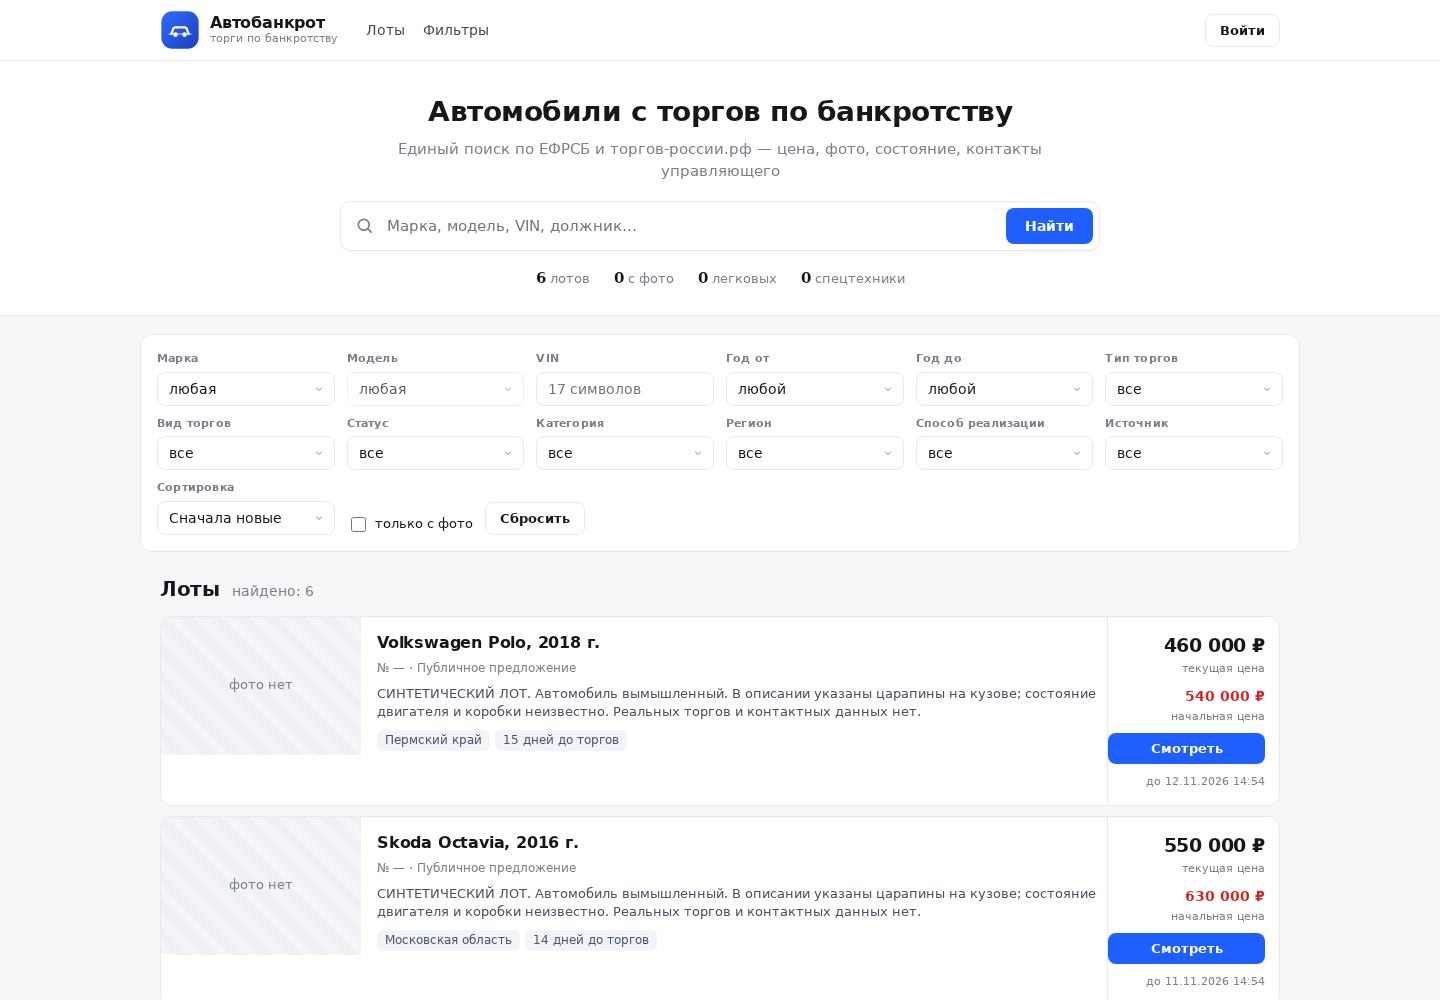
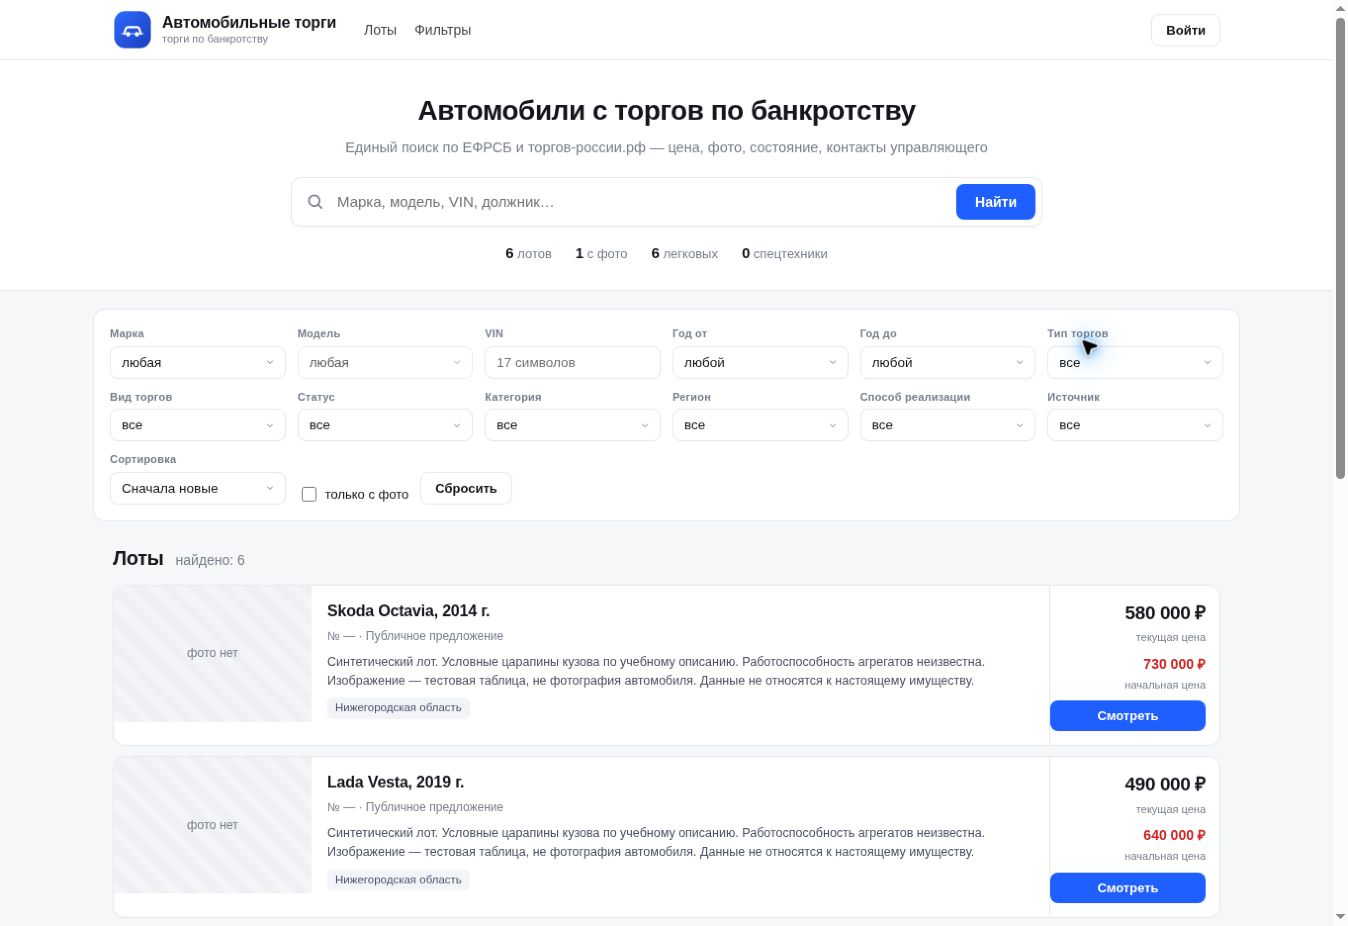
Publish isolated demo, refresh real screenshots and fix make filter counts

diff --git a/demo/fixtures.py b/demo/fixtures.py
@@ -1,0 +1,21 @@
+"""Public synthetic input only; no VINs, real people, listings or vehicle photos."""
+from pathlib import Path
+from PIL import Image, ImageDraw
+
+
+def seed(db, photos_dir):
+    rows=[('Toyota','Camry',2015,630000),('Kia','Rio',2018,470000),('Hyundai','Solaris',2017,520000),('Renault','Duster',2016,610000),('Lada','Vesta',2019,490000),('Skoda','Octavia',2014,580000)]
+    ids=[]
+    for i,(make,model,year,price) in enumerate(rows,1):
+        lot_id,_=db.upsert_lot(dict(efrsb_id=f'demo-{i}',title=f'{make} {model}, {year} — ДЕМО',make=make,model=model,year=year,make_model=f'{make} {model}',description='Синтетический лот. Условные царапины кузова по учебному описанию. Работоспособность агрегатов неизвестна. Изображение — тестовая таблица, не фотография автомобиля. Данные не относятся к настоящему имуществу.',price_amount=price,current_price=price,start_price=price+150000,price_currency='RUB',region='Нижегородская область',category='Легковые автомобили',trade_type='Публичное предложение',status='published',source_url='https://example.invalid/demo-lot'))
+        ids.append(lot_id)
+    folder=Path(photos_dir);folder.mkdir(parents=True,exist_ok=True)
+    im=Image.new('RGB',(1024,600),'#edf2fa');draw=ImageDraw.Draw(im)
+    for i,color in enumerate(['#225bd1','#71a5ee','#b3c9e8','#526374','#d6dce3']):
+        draw.rectangle((50+i*185,140,215+i*185,360),fill=color)
+    draw.text((55,55),'SYNTHETIC TEST IMAGE',fill='#18324d',font_size=34)
+    draw.text((55,420),'NOT A VEHICLE PHOTO',fill='#18324d',font_size=34)
+    draw.text((55,480),'No vehicle condition can be inferred from this image.',fill='#526374',font_size=23)
+    im.save(folder/'demo-test.png')
+    db.add_photo(ids[0],'https://example.invalid/synthetic-test',local_path='photos/demo-test.png',thumb_path='photos/demo-test.png',caption='Тестовая таблица, не фотография автомобиля',width=1024,height=600,status='ok',source_site='Синтетическая тестовая таблица')
+    return ids

diff --git a/demo/run_demo.py b/demo/run_demo.py
@@ -1,0 +1,40 @@
+"""Run the unchanged application on localhost with disposable synthetic records."""
+import argparse
+import os
+from pathlib import Path
+import shutil
+import sys
+import tempfile
+
+
+def main():
+    parser=argparse.ArgumentParser(description=__doc__)
+    parser.add_argument('--port',type=int,default=8781)
+    parser.add_argument('--live-ai',action='store_true',help='Explicitly allow one provider request with your configured key')
+    args=parser.parse_args()
+    if not 1024<=args.port<=65535:parser.error('Use a port between 1024 and 65535')
+    source=Path(__file__).resolve().parents[1]
+    key=''
+    if args.live_ai:
+        from dotenv import dotenv_values
+        key=os.environ.get('DEEPSEEK_API_KEY','').strip()
+        if not key and (source/'.env').is_file():key=str(dotenv_values(source/'.env').get('DEEPSEEK_API_KEY') or '').strip()
+        if not key:parser.error('Configure the key with python scripts/configure_deepseek.py; never paste it into chat or command arguments')
+    with tempfile.TemporaryDirectory(prefix='car-lot-pilot-demo-') as folder:
+        root=Path(folder)
+        shutil.copytree(source/'app',root/'app',ignore=shutil.ignore_patterns('__pycache__','*.pyc'))
+        # No mailbox settings, production paths or .env file enter the disposable app.
+        for name in list(os.environ):
+            if name.startswith(('EMAIL_','EMAIL2_','EFRSB_','TORGI_','AI_ANALYSIS_')):os.environ.pop(name,None)
+        os.environ.update(EFRSB_DATA=str(root/'data'),EFRSB_DB=str(root/'data/demo.db'),EMAIL_AUTO_SEND='0',EMAIL_AUTO_CHECK='0',TORGI_AUTO_SCRAPE='0',EMAIL2_ENABLED='0',ADMIN_PASSWORD='demo-local-only',DEEPSEEK_API_KEY=key,AI_ANALYSIS_DAILY_LIMIT='1',AI_ANALYSIS_MAX_PHOTOS='1',AI_ANALYSIS_MAX_QUERIES='1',AI_ANALYSIS_MAX_PAGES='1',AI_ANALYSIS_MAX_TOKENS='1500')
+        sys.path.insert(0,str(root))
+        from app.api.main import app
+        from app import db
+        from fixtures import seed
+        seed(db,root/'data/photos')
+        print(f'DEMO http://127.0.0.1:{args.port} | admin: demo-local-only | live AI: {bool(key)}')
+        import uvicorn
+        uvicorn.run(app,host='127.0.0.1',port=args.port,workers=1)
+
+
+if __name__=='__main__':main()

diff --git a/tests/test_analysis.py b/tests/test_analysis.py
@@ -235,6 +235,13 @@ class APIAndStoreTests(unittest.TestCase):
         data.update(changes)
         return AnalysisRequest(**data)
 
+    def test_make_count_matches_filter_ui_contract(self):
+        response = self.client.get("/api/makes")
+        self.assertEqual(response.status_code, 200)
+        item = next(row for row in response.json()["items"] if row["value"] == "Toyota")
+        self.assertEqual(item["cnt"], 1)
+        self.assertEqual(item["c"], 1)
+
     def test_auth_missing_key_and_offline_calculator(self):
         for method,path,body in (("get","/api/ai/status",None),("get",self.path,None),("post",self.path+"/calculate",{}),("post",self.path,self.request().model_dump(mode="json"))):
             self.assertEqual(self.client.request(method,path,json=body).status_code,401)

diff --git a/app/api/routes.py b/app/api/routes.py
@@ -257,7 +257,7 @@ def makes():
            WHERE make IS NOT NULL AND make != ''
            GROUP BY make ORDER BY c DESC, make"""
     )
-    return {"items": rows}
+    return {"items": [{**row, "cnt": row["c"]} for row in rows]}
 
 
 @router.get("/models")

diff --git a/demo/README.md b/demo/README.md
@@ -1,0 +1,43 @@
+# Воспроизводимая изолированная демонстрация
+
+Из корня `car_lot_pilot`, после установки `requirements.txt`:
+
+```bash
+python demo/run_demo.py
+```
+
+Открыть http://127.0.0.1:8781/ . Пароль **только одноразового локального стенда**: `demo-local-only`. Это не пароль рабочего приложения. Скрипт копирует только `app/` в новую временную папку, создаёт шесть вымышленных лотов и одну тестовую таблицу. Это **не фотография автомобиля**; по ней нельзя оценить его состояние. VIN, контактов, реальных писем и найденных объявлений в фикстуре нет. После штатной остановки база и изображение удаляются.
+
+Все почтовые задачи и сбор торгов выключены; рабочие `.env`, база и вложения не копируются. Без явного `--live-ai` ключ пуст, LLM не вызывается. Интерфейс и интеграция используются из существующего приложения.
+
+## Настоящий запрос DeepSeek — один контролируемый запуск
+
+Сначала в собственном checkout безопасно настройте ключ:
+
+```bash
+python scripts/configure_deepseek.py
+python scripts/configure_deepseek.py --check
+python demo/run_demo.py --live-ai
+```
+
+Ключ вводится скрыто, хранится в игнорируемом `.env` и не попадает в браузер. Не передавайте его в чат или аргументах команды. Демосервер читает только ключ из этой настройки, не переносит почтовые реквизиты. При отсутствии ключа запуск с `--live-ai` прекращается до создания сервера.
+
+Лимиты: один анализ в сутки в пределах текущей временной базы, одно фото, до 1500 выходных токенов, максимум по одному поисковому запросу и странице. Это технические ограничения, а не денежный лимит аккаунта; дополнительно установите бюджет в кабинете провайдера. Повторный запуск создаёт новую базу и сбрасывает локальный счётчик, поэтому не перезапускайте стенд ради обхода лимита.
+
+### Сценарий на 60–90 секунд
+
+1. Открыть синтетическую Toyota Camry. Показать описание и тестовую таблицу.
+2. Войти тестовым паролем; открыть «Анализ лота с DeepSeek».
+3. Раскрыть фото, выбрать таблицу. Она принадлежит тестовому лоту, но не показывает автомобиль. Задать вопрос: «Укажи, что можно и нельзя заключить из этих синтетических входных данных; не придумывай техническое состояние».
+4. **Снять «Искать аналоги через DeepSeek Search/Fetch»**, чтобы ограничиться одним запросом без интернет-поиска. Подтвердить принадлежность тестового изображения и согласие на его передачу. Реальные документы не выбирать.
+5. Нажать «Запустить анализ» один раз. Дождаться конечного статуса. Показать наблюдения, источники свидетельств, неизвестные данные и предупреждения. Технический диагноз по таблице недопустим.
+6. Без допустимых аналогов и расходов экономика остаётся неопределённой. Для отдельного офлайн-расчёта можно вручную ввести три разных синтетических аналога, явно помечая их учебными, и заполнить все расходы. Не называть их найденными рыночными объявлениями.
+
+29.10.2026 новый живой запрос **не выполнялся**: в среде финальной проверки ключ отсутствовал. Исторический успешный синтетический запрос 28.10.2026 описан в основном README; он не заменяет новый прогон. Запись живого LLM-видео не публикуется. GIF показывает реальные экраны каталога и карточки без запроса к провайдеру.
+
+## Подтверждённые проверки
+
+- 25 офлайн-тестов существующего адаптера, валидации, экономики, лимитов и API; ответы провайдера в тестах подставные.
+- Пустой ключ + `--live-ai`: понятная ошибка до запуска сервера.
+- Реальный браузер: каталог из шести синтетических лотов, исправленные счётчики марок, открытие карточки и тестового изображения.
+- Для рабочего режима почтовые интеграции сохранены; демонстрация их не включает.

diff --git a/README.md b/README.md
@@ -11,19 +11,21 @@
 
 ## Демонстрация для жюри
 
-Название в приложении — **«Автомобильные торги»**, репозиторий — `car_lot_pilot`. Ниже сохранены реальные снимки интерфейса до переименования: на них видно прежнее название «Автобанкрот». Функции на снимках не изменялись при смене названия.
+Название в приложении — **«Автомобильные торги»**, репозиторий — `car_lot_pilot`.
 
-Реальный интерфейс на отдельной локальной SQLite-базе. Автомобили, описания и суммы вымышлены; фото настоящих автомобилей и контактные данные не используются. Почта, сбор торгов и платные запросы отключены. Снимки от 28.10.2026.
+Реальный интерфейс на отдельной локальной SQLite-базе. Автомобили, описания и суммы вымышлены; фото настоящих автомобилей и контактные данные не используются. Почта, сбор торгов и платные запросы отключены. Снимки обновлены 29.10.2026. Тестовая таблица в карточке не является фотографией автомобиля.
 
 ![Короткий обзор реальных экранов на синтетических данных](docs/screenshots/walkthrough.gif)
 
-GIF — последовательность трёх экранов основного сценария; это не запись живого запроса к LLM.
+GIF — последовательность двух реальных экранов: каталог → карточка. Это не запись запроса к LLM.
 
 | Каталог | Карточка лота |
 | --- | --- |
 | ![Каталог синтетических лотов](docs/screenshots/01-catalog.png) | ![Карточка вымышленного автомобиля](docs/screenshots/02-lot.png) |
 
-![Три сценария на ручных синтетических аналогах без API](docs/screenshots/03-calculation.png)
+[Изолированный демозапуск, сценарий живого запроса и подтверждённые ограничения](demo/README.md).
+
+[Исторический кадр офлайн-расчёта от 28.10.2026](docs/screenshots/archive/2026-10-28-calculation.png) сохранён отдельно и не входит в новую галерею.
 
 В демонстрации расчёт выполняется существующим API без ключа. Ручные аналоги — учебные входные данные, а не найденные рыночные объявления. Результат не подтверждает выгоду реальных торгов.
 

diff --git a/docs/screenshots/archive/README.md b/docs/screenshots/archive/README.md
@@ -1,0 +1,1 @@
+Исторический кадр от 28.10.2026 до переименования. Не входит в актуальную демонстрационную галерею. Сохранён как ранее полученное свидетельство офлайн-расчёта; не показывает живой запрос LLM.
